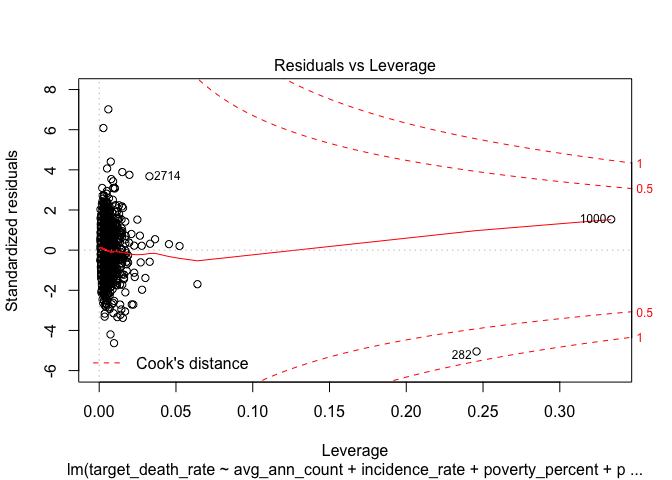
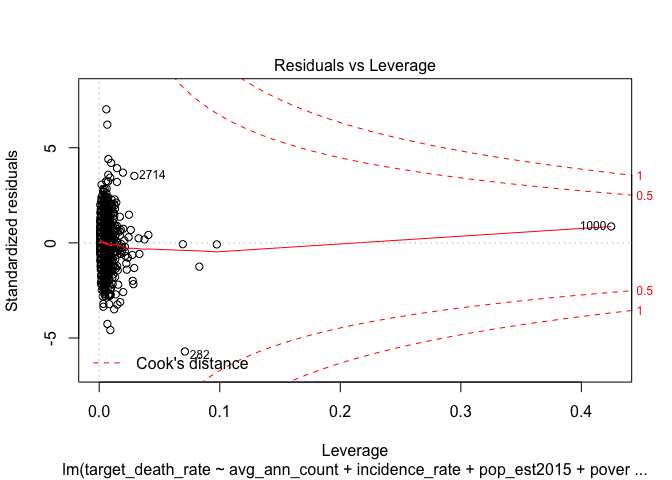
add cp&aic&bic*r2 calculation

diff --git a/bm_finalproject.md b/bm_finalproject.md
@@ -167,6 +167,29 @@ vif(step_model_plus)
     ##                    pct_no_cov incidence_rate:black_high_ind 
     ##                      1.673038                     88.098191
 
+### Cp*A**I**C*adjustedr2
+
+``` r
+X_ours <- 
+  model.matrix(target_death_rate ~ avg_ann_count + incidence_rate + poverty_percent + percent_married + pct_bach_deg25_over + pct_unemployed16_over + birth_rate , data = num_df)
+
+Y_ours <- num_df[,3]
+
+x = glance(step_model_ours) 
+x %>%  
+  knitr::kable(digits = 2)
+```
+
+|       |  r.squared|  adj.r.squared|  sigma|  statistic|  p.value|   df|    logLik|       AIC|       BIC|  deviance|  df.residual|
+|-------|----------:|--------------:|------:|----------:|--------:|----:|---------:|---------:|---------:|---------:|------------:|
+| value |       0.42|           0.41|  19.59|      185.7|        0|    9|  -9187.58|  18395.16|  18451.62|  799337.2|         2083|
+
+``` r
+AIC(step_model_plus)
+```
+
+    ## [1] 18391.85
+
 Backward elimination
 --------------------
 
@@ -272,7 +295,7 @@ cv.out<-cv.glmnet(X[train,],Y[train])
 plot(cv.out)
 ```
 
-![](bm_finalproject_files/figure-markdown_github/unnamed-chunk-8-1.png)
+![](bm_finalproject_files/figure-markdown_github/unnamed-chunk-9-1.png)
 
 ``` r
 # Fit a Lasso model with all observations with the best lambda
@@ -352,14 +375,14 @@ Cook's Distance
 plot(step_model)
 ```
 
-![](bm_finalproject_files/figure-markdown_github/unnamed-chunk-9-1.png)![](bm_finalproject_files/figure-markdown_github/unnamed-chunk-9-2.png)![](bm_finalproject_files/figure-markdown_github/unnamed-chunk-9-3.png)![](bm_finalproject_files/figure-markdown_github/unnamed-chunk-9-4.png)
+![](bm_finalproject_files/figure-markdown_github/unnamed-chunk-11-1.png)![](bm_finalproject_files/figure-markdown_github/unnamed-chunk-11-2.png)![](bm_finalproject_files/figure-markdown_github/unnamed-chunk-11-3.png)![](bm_finalproject_files/figure-markdown_github/unnamed-chunk-11-4.png)
 
 ``` r
 # backward model
 plot(back_model)
 ```
 
-![](bm_finalproject_files/figure-markdown_github/unnamed-chunk-9-5.png)![](bm_finalproject_files/figure-markdown_github/unnamed-chunk-9-6.png)![](bm_finalproject_files/figure-markdown_github/unnamed-chunk-9-7.png)![](bm_finalproject_files/figure-markdown_github/unnamed-chunk-9-8.png)
+![](bm_finalproject_files/figure-markdown_github/unnamed-chunk-11-5.png)![](bm_finalproject_files/figure-markdown_github/unnamed-chunk-11-6.png)![](bm_finalproject_files/figure-markdown_github/unnamed-chunk-11-7.png)![](bm_finalproject_files/figure-markdown_github/unnamed-chunk-11-8.png)
 
 ``` r
 # Observation 282, 1221, 1366 should be looked at 
@@ -4596,35 +4619,12 @@ summary(step_model)
     ## F-statistic: 165.6 on 9 and 2082 DF,  p-value: < 2.2e-16
 
 ``` r
-<<<<<<< HEAD
-# step model
-plot(step_model)
-```
-
-![](bm_finalproject_files/figure-markdown_github/unnamed-chunk-11-1.png)![](bm_finalproject_files/figure-markdown_github/unnamed-chunk-11-2.png)![](bm_finalproject_files/figure-markdown_github/unnamed-chunk-11-3.png)![](bm_finalproject_files/figure-markdown_github/unnamed-chunk-11-4.png)
-=======
 # 282, 1221, 1336 noted as potentially influential 
->>>>>>> ee821cb322fb34f13f38a7d40d559d999c4a4eae
 
 plot(num_df$incidence_rate, num_df$target_death_rate)
 ```
 
-<<<<<<< HEAD
-![](bm_finalproject_files/figure-markdown_github/unnamed-chunk-11-5.png)![](bm_finalproject_files/figure-markdown_github/unnamed-chunk-11-6.png)![](bm_finalproject_files/figure-markdown_github/unnamed-chunk-11-7.png)![](bm_finalproject_files/figure-markdown_github/unnamed-chunk-11-8.png)
-
-``` r
-# forward model
-plot(for_model)
-```
-
-![](bm_finalproject_files/figure-markdown_github/unnamed-chunk-11-9.png)![](bm_finalproject_files/figure-markdown_github/unnamed-chunk-11-10.png)![](bm_finalproject_files/figure-markdown_github/unnamed-chunk-11-11.png)![](bm_finalproject_files/figure-markdown_github/unnamed-chunk-11-12.png)
-
-``` r
-# Observation 282 should be looked at 
-```
-=======
-![](bm_finalproject_files/figure-markdown_github/unnamed-chunk-10-1.png)
->>>>>>> ee821cb322fb34f13f38a7d40d559d999c4a4eae
+![](bm_finalproject_files/figure-markdown_github/unnamed-chunk-12-1.png)
 
 Remove Outliers
 ---------------
@@ -4648,51 +4648,27 @@ summary(step_no_282)
     ##     pct_unemployed16_over + birth_rate + black_high_ind, data = num_df_no_282)
     ## 
     ## Residuals:
-<<<<<<< HEAD
-    ##     Min      1Q  Median      3Q     Max 
-    ## -90.289 -11.346  -0.421  10.730 136.405 
-    ## 
-    ## Coefficients:
-    ##                                 Estimate Std. Error t value Pr(>|t|)    
-    ## (Intercept)                    1.216e+02  9.440e+00  12.882  < 2e-16 ***
-    ## avg_ann_count                 -1.080e-03  3.049e-04  -3.541 0.000408 ***
-    ## incidence_rate                 1.959e-01  9.847e-03  19.889  < 2e-16 ***
-    ## poverty_percent                3.691e-01  1.351e-01   2.733 0.006326 ** 
-    ## percent_married               -2.606e-01  1.006e-01  -2.591 0.009638 ** 
-    ## pct_bach_deg25_over           -1.878e+00  1.052e-01 -17.850  < 2e-16 ***
-    ## pct_unemployed16_over          6.527e-01  1.837e-01   3.553 0.000390 ***
-    ## birth_rate                    -7.703e-01  2.168e-01  -3.553 0.000389 ***
-    ## black_high_ind                 5.300e+00  1.010e+01   0.524 0.599991    
-    ## incidence_rate:black_high_ind -3.113e-03  2.205e-02  -0.141 0.887747    
-    ## ---
-    ## Signif. codes:  0 '***' 0.001 '**' 0.01 '*' 0.05 '.' 0.1 ' ' 1
-    ## 
-    ## Residual standard error: 19.45 on 2081 degrees of freedom
-    ## Multiple R-squared:  0.4252, Adjusted R-squared:  0.4227 
-    ## F-statistic:   171 on 9 and 2081 DF,  p-value: < 2.2e-16
-=======
-    ##      Min       1Q   Median       3Q      Max 
-    ## -107.689  -11.180   -0.397   10.932  137.011 
+    ##    Min     1Q Median     3Q    Max 
+    ## -90.44 -11.37  -0.45  10.68 136.32 
     ## 
     ## Coefficients:
     ##                         Estimate Std. Error t value Pr(>|t|)    
-    ## (Intercept)            1.258e+02  9.252e+00  13.601  < 2e-16 ***
-    ## avg_ann_count         -2.287e-03  7.841e-04  -2.917 0.003574 ** 
-    ## incidence_rate         1.854e-01  8.748e-03  21.195  < 2e-16 ***
-    ## pop_est2015            6.066e-06  3.295e-06   1.841 0.065788 .  
-    ## poverty_percent        3.297e-01  1.362e-01   2.420 0.015596 *  
-    ## percent_married       -2.275e-01  1.012e-01  -2.247 0.024744 *  
-    ## pct_bach_deg25_over   -1.934e+00  1.055e-01 -18.328  < 2e-16 ***
-    ## pct_unemployed16_over  6.647e-01  1.852e-01   3.589 0.000339 ***
-    ## birth_rate            -7.548e-01  2.185e-01  -3.454 0.000564 ***
-    ## black_high_ind         3.880e+00  1.127e+00   3.442 0.000589 ***
+    ## (Intercept)            1.212e+02  9.216e+00  13.148  < 2e-16 ***
+    ## avg_ann_count         -2.488e-03  7.781e-04  -3.198 0.001406 ** 
+    ## incidence_rate         1.977e-01  8.939e-03  22.118  < 2e-16 ***
+    ## pop_est2015            6.432e-06  3.270e-06   1.967 0.049283 *  
+    ## poverty_percent        3.513e-01  1.351e-01   2.599 0.009403 ** 
+    ## percent_married       -2.541e-01  1.005e-01  -2.528 0.011557 *  
+    ## pct_bach_deg25_over   -1.893e+00  1.050e-01 -18.033  < 2e-16 ***
+    ## pct_unemployed16_over  6.325e-01  1.838e-01   3.442 0.000590 ***
+    ## birth_rate            -7.465e-01  2.169e-01  -3.443 0.000588 ***
+    ## black_high_ind         3.750e+00  1.119e+00   3.353 0.000814 ***
     ## ---
     ## Signif. codes:  0 '***' 0.001 '**' 0.01 '*' 0.05 '.' 0.1 ' ' 1
     ## 
-    ## Residual standard error: 19.58 on 2081 degrees of freedom
-    ## Multiple R-squared:  0.4171, Adjusted R-squared:  0.4146 
-    ## F-statistic: 165.5 on 9 and 2081 DF,  p-value: < 2.2e-16
->>>>>>> a7eeba7d73c0eb72fd0a7df23306ece45af158bd
+    ## Residual standard error: 19.43 on 2081 degrees of freedom
+    ## Multiple R-squared:  0.4263, Adjusted R-squared:  0.4238 
+    ## F-statistic: 171.8 on 9 and 2081 DF,  p-value: < 2.2e-16
 
 ``` r
 back_no_282 = update(back_model, . ~ ., data = num_df_no_282)
@@ -4745,41 +4721,37 @@ summary(step_no282_1221_1366)
     ## 
     ## Call:
     ## lm(formula = target_death_rate ~ avg_ann_count + incidence_rate + 
-    ##     poverty_percent + percent_married + pct_bach_deg25_over + 
-    ##     pct_unemployed16_over + birth_rate + black_high_ind + incidence_rate:black_high_ind, 
-    ##     data = num_df_no_282_1221_1366)
+    ##     pop_est2015 + poverty_percent + percent_married + pct_bach_deg25_over + 
+    ##     pct_unemployed16_over + birth_rate + black_high_ind, data = num_df_no_282_1221_1366)
     ## 
     ## Residuals:
     ##     Min      1Q  Median      3Q     Max 
-    ## -90.092 -11.171  -0.323  10.714  86.437 
+    ## -90.295 -11.188  -0.469  10.891  86.127 
     ## 
     ## Coefficients:
-    ##                                 Estimate Std. Error t value Pr(>|t|)    
-    ## (Intercept)                    1.239e+02  9.249e+00  13.398  < 2e-16 ***
-    ## avg_ann_count                 -1.083e-03  2.988e-04  -3.624 0.000297 ***
-    ## incidence_rate                 1.947e-01  9.645e-03  20.187  < 2e-16 ***
-    ## poverty_percent                3.272e-01  1.324e-01   2.472 0.013500 *  
-    ## percent_married               -2.786e-01  9.853e-02  -2.828 0.004727 ** 
-    ## pct_bach_deg25_over           -1.918e+00  1.032e-01 -18.582  < 2e-16 ***
-    ## pct_unemployed16_over          6.983e-01  1.800e-01   3.879 0.000108 ***
-    ## birth_rate                    -7.776e-01  2.123e-01  -3.662 0.000256 ***
-    ## black_high_ind                 4.621e+00  9.896e+00   0.467 0.640562    
-    ## incidence_rate:black_high_ind -2.153e-03  2.160e-02  -0.100 0.920585    
+    ##                         Estimate Std. Error t value Pr(>|t|)    
+    ## (Intercept)            1.233e+02  9.025e+00  13.658  < 2e-16 ***
+    ## avg_ann_count         -2.766e-03  7.635e-04  -3.623 0.000299 ***
+    ## incidence_rate         1.972e-01  8.750e-03  22.536  < 2e-16 ***
+    ## pop_est2015            7.681e-06  3.207e-06   2.395 0.016707 *  
+    ## poverty_percent        3.056e-01  1.324e-01   2.309 0.021044 *  
+    ## percent_married       -2.711e-01  9.843e-02  -2.754 0.005937 ** 
+    ## pct_bach_deg25_over   -1.935e+00  1.029e-01 -18.800  < 2e-16 ***
+    ## pct_unemployed16_over  6.748e-01  1.800e-01   3.749 0.000182 ***
+    ## birth_rate            -7.491e-01  2.123e-01  -3.529 0.000427 ***
+    ## black_high_ind         3.486e+00  1.096e+00   3.181 0.001492 ** 
     ## ---
     ## Signif. codes:  0 '***' 0.001 '**' 0.01 '*' 0.05 '.' 0.1 ' ' 1
     ## 
-    ## Residual standard error: 19.05 on 2079 degrees of freedom
-    ## Multiple R-squared:  0.438,  Adjusted R-squared:  0.4356 
-    ## F-statistic:   180 on 9 and 2079 DF,  p-value: < 2.2e-16
+    ## Residual standard error: 19.02 on 2079 degrees of freedom
+    ## Multiple R-squared:  0.4396, Adjusted R-squared:  0.4371 
+    ## F-statistic: 181.2 on 9 and 2079 DF,  p-value: < 2.2e-16
 
 ``` r
 back_no282_1221_1366 = update(back_model, . ~ ., data = num_df_no_282_1221_1366)
 summary(back_no282_1221_1366)
 ```
 
-<<<<<<< HEAD
-![](bm_finalproject_files/figure-markdown_github/unnamed-chunk-12-1.png)![](bm_finalproject_files/figure-markdown_github/unnamed-chunk-12-2.png)![](bm_finalproject_files/figure-markdown_github/unnamed-chunk-12-3.png)![](bm_finalproject_files/figure-markdown_github/unnamed-chunk-12-4.png)
-=======
     ## 
     ## Call:
     ## lm(formula = target_death_rate ~ avg_ann_count + avg_deaths_per_year + 
@@ -4810,4 +4782,3 @@ summary(back_no282_1221_1366)
     ## Residual standard error: 18.96 on 2078 degrees of freedom
     ## Multiple R-squared:  0.4435, Adjusted R-squared:  0.4408 
     ## F-statistic: 165.6 on 10 and 2078 DF,  p-value: < 2.2e-16
->>>>>>> ee821cb322fb34f13f38a7d40d559d999c4a4eae
